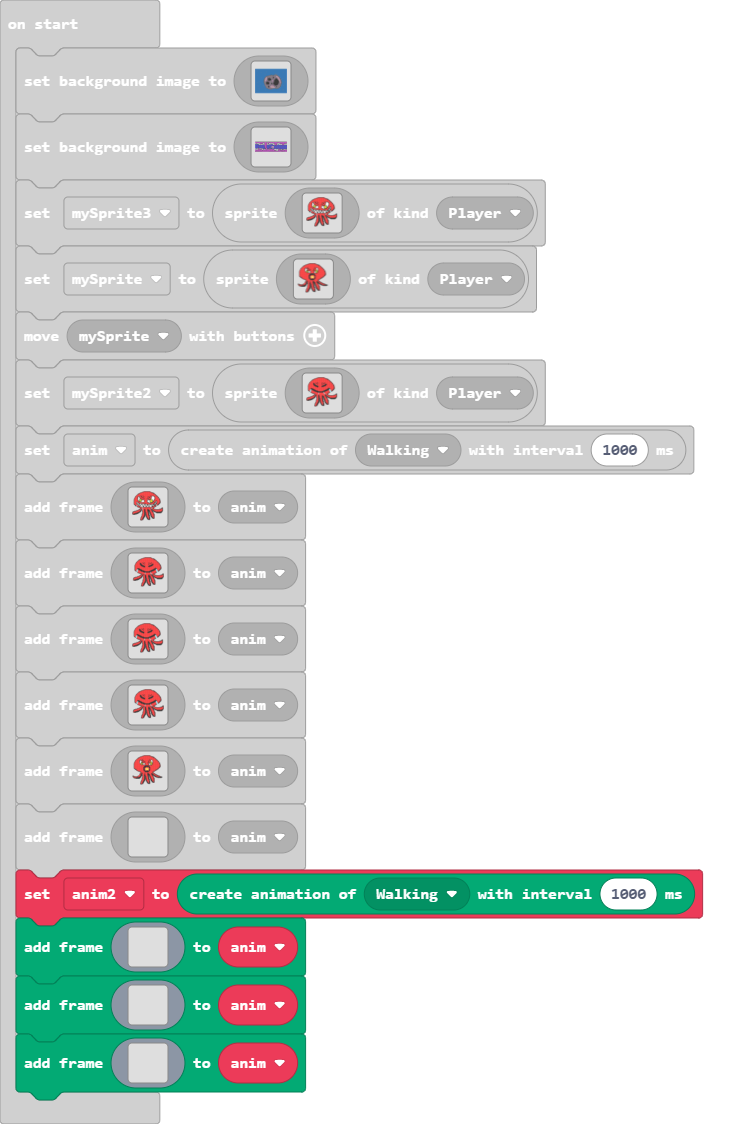
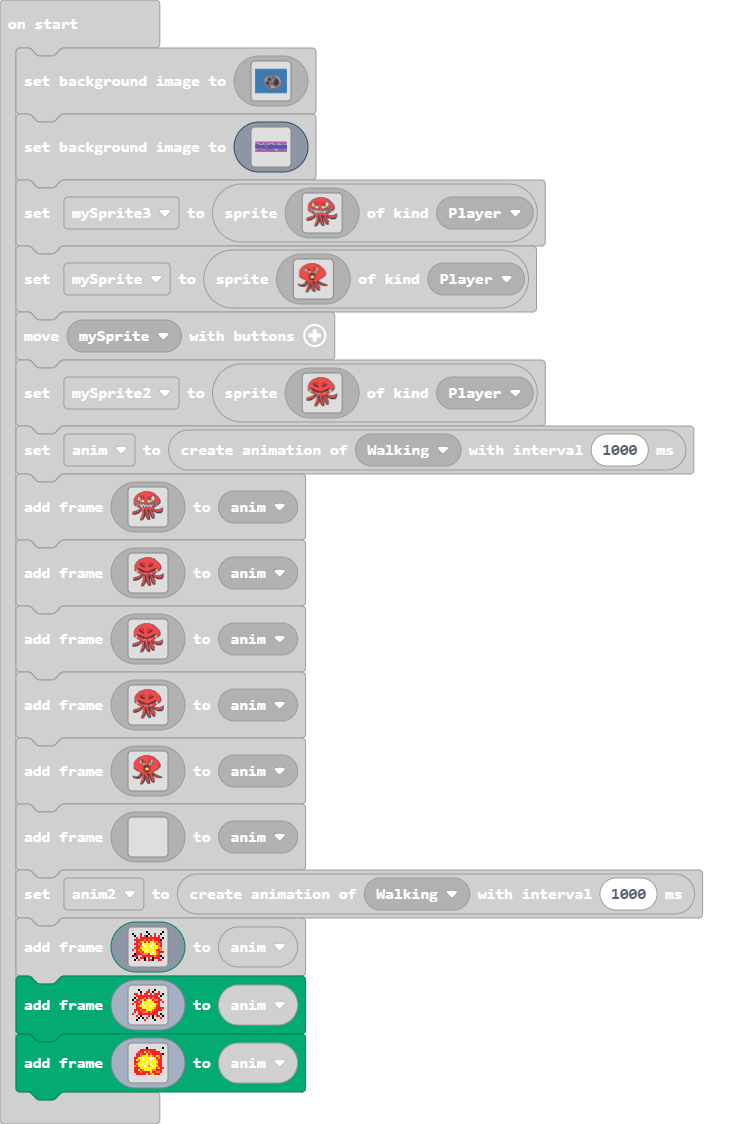
Update main.blocks, main.ts

Changed region(s): [[0.0, 0.7473, 0.9444, 0.9964], [0.3046, 0.0934, 0.4265, 0.1557]]

diff --git a/main.ts b/main.ts
@@ -177,35 +177,35 @@ scene.setBackgroundImage(img`
[64 lines of base64/hex data omitted]
@@ -766,56 +766,56 @@ anim.addAnimationFrame(img`
     `)
 let anim2 = animation.createAnimation(ActionKind.Walking, 1000)
 anim.addAnimationFrame(img`
-    . . . . . . . . . . . . . . . . 
-    . . . . . . . . . . . . . . . . 
-    . . . . . . . . . . . . . . . . 
-    . . . . . . . . . . . . . . . . 
-    . . . . . . . . . . . . . . . . 
-    . . . . . . . . . . . . . . . . 
-    . . . . . . . . . . . . . . . . 
-    . . . . . . . . . . . . . . . . 
-    . . . . . . . . . . . . . . . . 
-    . . . . . . . . . . . . . . . . 
-    . . . . . . . . . . . . . . . . 
-    . . . . . . . . . . . . . . . . 
-    . . . . . . . . . . . . . . . . 
-    . . . . . . . . . . . . . . . . 
-    . . . . . . . . . . . . . . . . 
-    . . . . . . . . . . . . . . . . 
-    `)
-anim.addAnimationFrame(img`
-    . . . . . . . . . . . . . . . . 
-    . . . . . . . . . . . . . . . . 
-    . . . . . . . . . . . . . . . . 
-    . . . . . . . . . . . . . . . . 
-    . . . . . . . . . . . . . . . . 
-    . . . . . . . . . . . . . . . . 
-    . . . . . . . . . . . . . . . . 
-    . . . . . . . . . . . . . . . . 
-    . . . . . . . . . . . . . . . . 
-    . . . . . . . . . . . . . . . . 
-    . . . . . . . . . . . . . . . . 
-    . . . . . . . . . . . . . . . . 
-    . . . . . . . . . . . . . . . . 
-    . . . . . . . . . . . . . . . . 
-    . . . . . . . . . . . . . . . . 
+    . . . . . . . f . . . . . . . f 
+    f . . . 2 . . . f . . 2 . . f . 
+    . f . . 2 . 2 f . 2 . 2 . 2 . . 
+    . . 2 . 2 2 2 2 2 2 2 2 2 2 . f 
+    . 2 2 2 2 2 4 2 4 2 4 2 2 2 f . 
+    . . 2 2 4 5 2 5 2 5 5 4 4 2 2 . 
+    . 2 2 4 2 1 5 5 5 5 1 5 2 4 2 . 
+    . . 2 2 4 5 1 5 5 1 5 5 5 4 2 . 
+    . 2 2 2 5 5 5 5 5 5 1 5 5 4 4 . 
+    2 . 2 4 2 5 5 1 5 5 5 5 2 2 4 . 
+    . . 2 2 4 2 5 5 5 5 1 5 4 2 2 2 
+    . f 2 2 2 4 4 4 2 1 5 5 4 2 . . 
+    f 2 2 . . 2 2 2 2 2 2 4 2 2 f . 
+    . . f . 2 2 f . 2 . f 2 2 2 . f 
+    . f . 2 . . f . 2 2 f . . 2 2 . 
     . . . . . . . . . . . . . . . . 
     `)
 anim.addAnimationFrame(img`
-    . . . . . . . . . . . . . . . . 
-    . . . . . . . . . . . . . . . . 
-    . . . . . . . . . . . . . . . . 
-    . . . . . . . . . . . . . . . . 
-    . . . . . . . . . . . . . . . . 
-    . . . . . . . . . . . . . . . . 
-    . . . . . . . . . . . . . . . . 
-    . . . . . . . . . . . . . . . . 
-    . . . . . . . . . . . . . . . . 
-    . . . . . . . . . . . . . . . . 
-    . . . . . . . . . . . . . . . . 
-    . . . . . . . . . . . . . . . . 
-    . . . . . . . . . . . . . . . . 
-    . . . . . . . . . . . . . . . . 
+    . . . f . . . . 2 . . f . . . . 
+    . . . . f . . 2 2 . f . . 2 . . 
+    . 2 2 . 2 . 2 2 . 2 . 2 2 2 . f 
+    . . 2 2 2 2 2 2 2 2 2 2 2 . f . 
+    . f . 2 2 2 4 2 4 2 4 2 2 2 . . 
+    f . 2 2 4 5 2 5 1 5 2 4 4 2 2 . 
+    . 2 2 4 2 1 5 5 5 5 5 2 2 2 . 2 
+    2 . 2 2 4 1 5 5 5 5 1 5 4 2 . . 
+    . . 2 4 5 5 1 5 5 1 5 5 2 2 . . 
+    . . 2 2 2 5 5 5 5 5 5 4 2 2 2 2 
+    . 2 2 2 4 2 2 5 1 5 4 2 2 2 2 . 
+    . 2 . 2 2 4 4 4 2 4 2 2 2 . . . 
+    2 . . 2 2 2 2 2 2 2 2 2 2 . f . 
+    . . 2 . f . . . 2 . f . 2 2 . f 
+    . . . f . f . 2 . . f . . . 2 . 
+    . . f . . . 2 . . . . f . . . . 
+    `)
+anim.addAnimationFrame(img`
+    . . . . . . . f . . . . . . . f 
+    . . . . 2 2 2 2 2 2 2 2 . . . . 
+    . . . 2 2 2 5 2 4 2 2 2 2 2 . . 
+    . . 2 2 4 2 2 5 2 4 2 2 2 2 2 f 
+    . . 2 2 4 5 5 5 4 5 4 2 5 4 2 . 
+    . 2 2 5 5 1 5 5 5 1 1 5 2 4 2 . 
+    . 2 5 4 5 5 5 5 5 1 5 5 4 2 2 . 
+    . 2 2 4 5 5 5 1 5 5 5 5 5 2 2 . 
+    . 2 4 5 5 1 5 5 5 1 5 5 4 2 2 . 
+    . 4 2 5 5 5 1 5 4 5 1 5 5 2 2 . 
+    . 2 2 2 5 5 5 5 5 5 5 5 2 5 2 2 
+    . 2 2 5 2 4 5 5 5 5 4 4 2 2 2 . 
+    . 2 2 2 4 2 2 2 2 5 2 2 4 4 2 . 
+    . . 2 2 2 2 2 . 2 4 5 2 2 2 . . 
     . . . . . . . . . . . . . . . . 
     . . . . . . . . . . . . . . . . 
     `)
